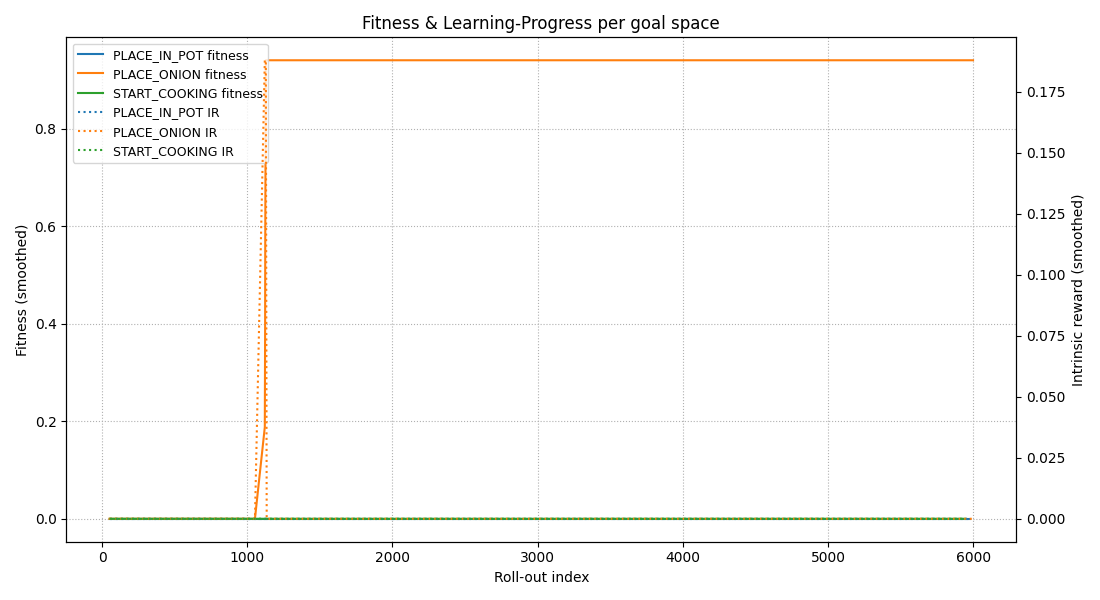
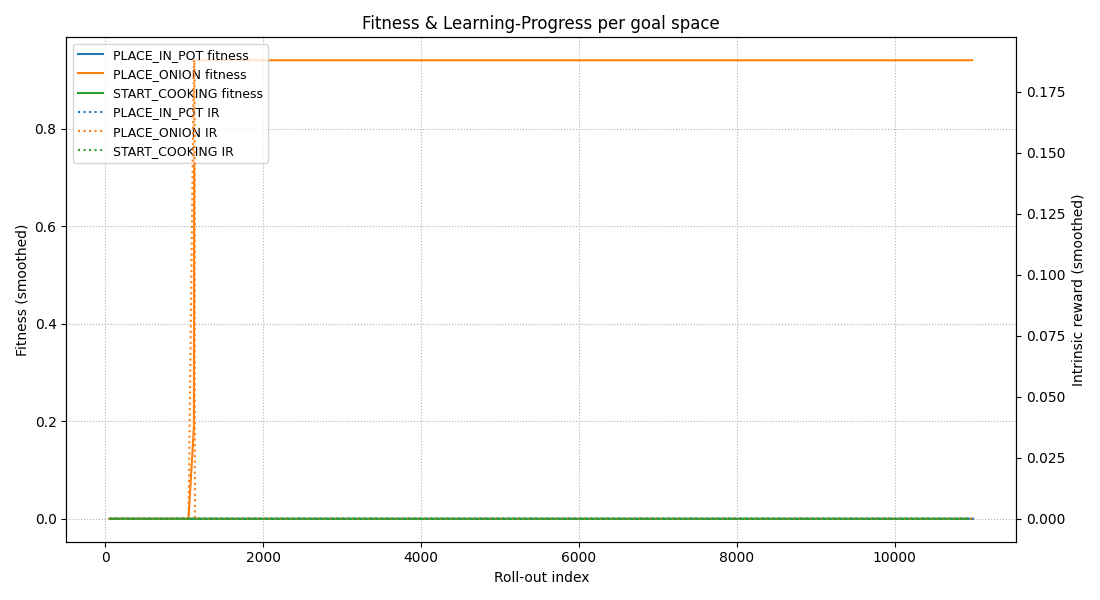
Pretty nice plot

diff --git a/IMGEP_agent/hyper_parameters.py b/IMGEP_agent/hyper_parameters.py
@@ -1,6 +1,6 @@
 # ROLLOUT PARAMETERS
 HORIZON = 100  # number of steps to run per rollout
-ROLLOUTS = 1000  # number of rollouts to run
+ROLLOUTS = 5000  # number of rollouts to run
 LAYOUT_ID = 22  # layout index to use from the layouts list in overcooked_ai_py
 LOAD_KB = True  # whether to load the knowledge base from a file or not
 
